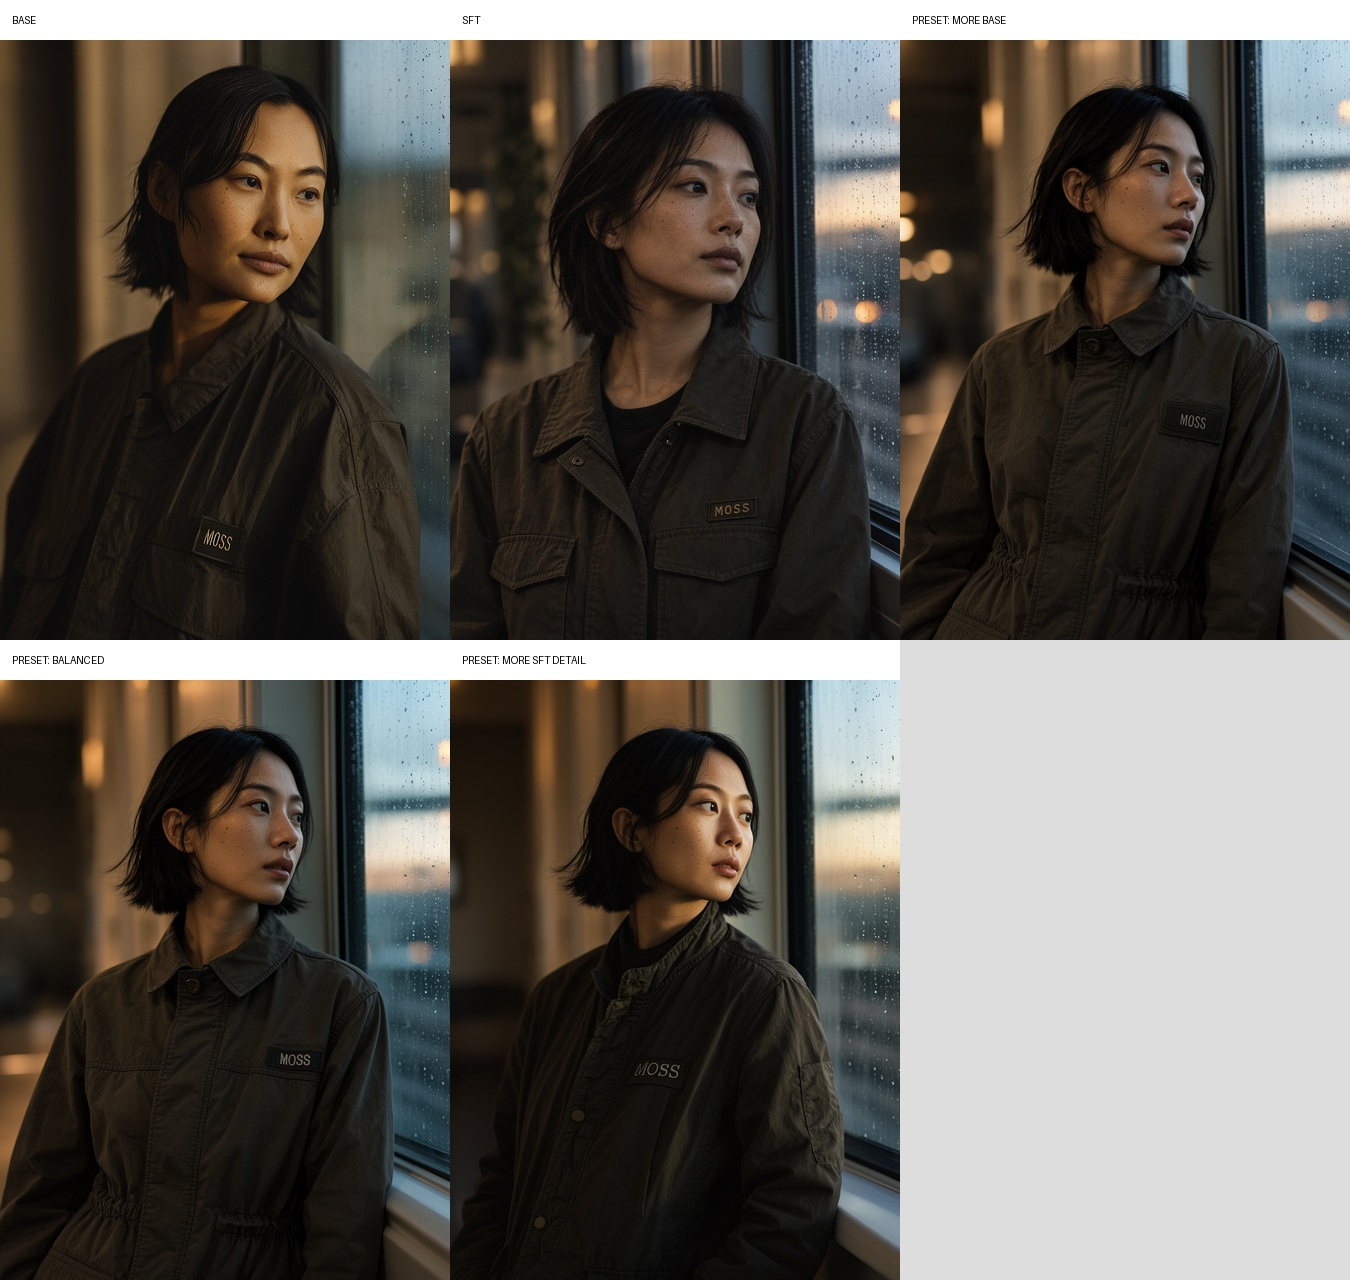
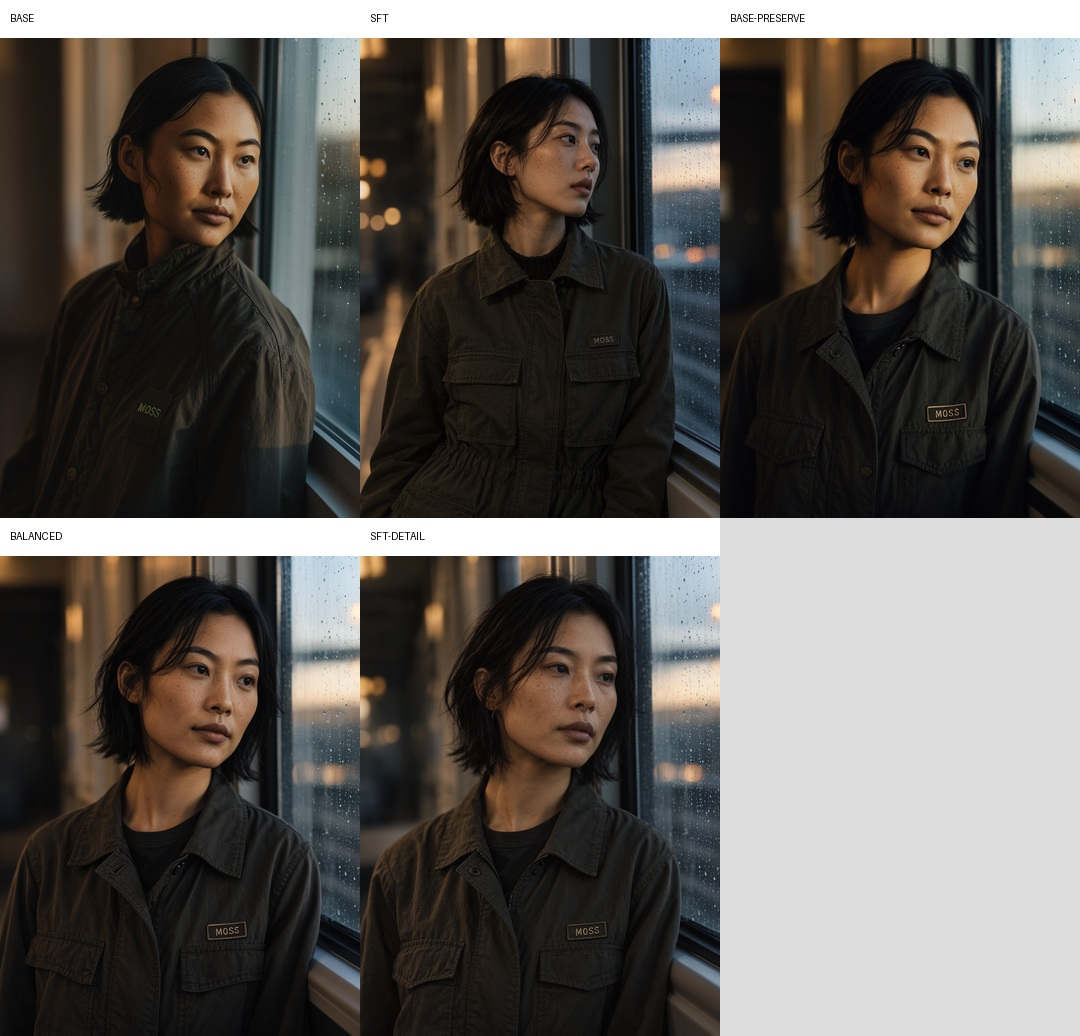
Fix Base/SFT merge direction and add regression tests

diff --git a/tests/test_merge_direction.py b/tests/test_merge_direction.py
@@ -1,0 +1,60 @@
+from pathlib import Path
+import importlib.util
+import unittest
+
+ROOT = Path(__file__).resolve().parents[1]
+spec = importlib.util.spec_from_file_location("moss_merge_presets", ROOT / "__init__.py")
+module = importlib.util.module_from_spec(spec)
+spec.loader.exec_module(module)
+
+
+class FakeModel:
+    def __init__(self):
+        self.calls = []
+
+    def clone(self):
+        return self
+
+    def get_key_patches(self, prefix):
+        return {
+            "diffusion_model.layers.0.proj.q.weight": [("sft-weight", None)],
+        }
+
+    def add_patches(self, patches, strength_patch, strength_model):
+        self.calls.append((patches, strength_patch, strength_model))
+
+
+class MergeDirectionTests(unittest.TestCase):
+    def test_zero_is_base_and_one_is_sft(self):
+        base = FakeModel()
+        sft = FakeModel()
+        node = module.MOSSMergePreset()
+
+        node.merge(base, sft, "Custom", 0.0, "", **{
+            field: 0.4 for field, _ in module.CUSTOM_FIELDS
+        })
+        _, strength_patch, strength_model = base.calls[-1]
+        self.assertEqual(strength_patch, 0.0)
+        self.assertEqual(strength_model, 1.0)
+
+        node.merge(base, sft, "Custom", 1.0, "", **{
+            field: 1.0 for field, _ in module.CUSTOM_FIELDS
+        })
+        _, strength_patch, strength_model = base.calls[-1]
+        self.assertEqual(strength_patch, 1.0)
+        self.assertEqual(strength_model, 0.0)
+
+    def test_sft_detail_first_layer_uses_preset_sft_weight(self):
+        base = FakeModel()
+        sft = FakeModel()
+        node = module.MOSSMergePreset()
+
+        node.merge(base, sft, "SFT-detail", 1.0, "")
+        _, strength_patch, strength_model = base.calls[-1]
+        expected_sft = module.PRESETS["SFT-detail"]["layers.0."]
+        self.assertAlmostEqual(strength_patch, expected_sft)
+        self.assertAlmostEqual(strength_model, 1.0 - expected_sft)
+
+
+if __name__ == "__main__":
+    unittest.main()

diff --git a/__init__.py b/__init__.py
@@ -134,7 +134,10 @@ class MOSSMergePreset:
                     ratio = value
                     break
             ratio = min(1.0, max(0.0, ratio * strength))
-            merged.add_patches({key: patches}, 1.0 - ratio, ratio)
+            # Public merge values are SFT weights: 0=Base, 1=SFT.
+            # ComfyUI add_patches uses (strength_patch, strength_model), where
+            # strength_model scales the cloned Base and strength_patch scales SFT.
+            merged.add_patches({key: patches}, ratio, 1.0 - ratio)
         return (merged,)
 
 
@@ -142,3 +145,4 @@ NODE_CLASS_MAPPINGS["MOSSMergePreset"] = MOSSMergePreset
 NODE_DISPLAY_NAME_MAPPINGS["MOSSMergePreset"] = "MOSS Base+SFT Merge Preset"
 
 __all__ = ["NODE_CLASS_MAPPINGS", "NODE_DISPLAY_NAME_MAPPINGS", "WEB_DIRECTORY"]
+

diff --git a/README.md b/README.md
@@ -104,7 +104,8 @@ Merge weights use `0 = Base` and `1 = SFT`.
 
 - `0.0` = pure Base
 - `1.0` = selected preset
-- values above `1.0` amplify the preset until each component reaches `1.0`
+- values above `1.0` amplify the preset until each component reaches `1.0`n
+Note: because each component is clamped at `1.0`, `1.25` is not a uniform 25% increase. `SFT-detail` at `1.25` is still a blend, not pure SFT.
 
 ## Custom Mode
 
@@ -210,3 +211,9 @@ MIT. See [LICENSE](LICENSE).
 - [OpenMOSS / MOSS-Image](https://github.com/OpenMOSS/MOSS-Image)
 - [ComfyUI](https://github.com/comfyanonymous/ComfyUI)
 - The ComfyUI model-merging API and MOSS-Image community integrations
+
+## Changelog
+
+See [CHANGELOG.md](CHANGELOG.md).
+
+

diff --git a/README_ZH.md b/README_ZH.md
@@ -104,7 +104,8 @@ SFT MODEL ──┘
 
 - `0.0` = 纯 Base
 - `1.0` = 当前预设
-- 大于 `1.0` = 加强当前预设，单项最高限制为 `1.0`
+- 大于 `1.0` = 加强当前预设，单项最高限制为 `1.0`n
+注意：由于每项都会在 `1.0` 截断，`1.25` 不是统一的 25% 增强。`SFT-detail` 在 `1.25` 仍然是混合模型，不等于纯 SFT。
 
 ## Custom 模式
 
@@ -210,3 +211,9 @@ MIT，详见 [LICENSE](LICENSE)。
 - [OpenMOSS / MOSS-Image](https://github.com/OpenMOSS/MOSS-Image)
 - [ComfyUI](https://github.com/comfyanonymous/ComfyUI)
 - ComfyUI 模型融合 API 与 MOSS-Image 社区集成
+
+## 更新记录
+
+详见 [CHANGELOG.md](CHANGELOG.md)。
+
+

diff --git a/CHANGELOG.md b/CHANGELOG.md
@@ -1,0 +1,15 @@
+# Changelog
+
+## 1.0.1
+
+- Fixed the Base/SFT merge direction.
+- `0` now correctly means pure Base and `1` means pure SFT.
+- Preset values are now interpreted as SFT weights, matching the README and UI.
+- Added a regression test for the merge direction.
+
+## 1.0.0
+
+- Initial public release.
+- Added `Base-preserve`, `Balanced`, `SFT-detail`, and `Custom` modes.
+- Added live per-layer merge information.
+- Added English and Chinese documentation and test prompts.
